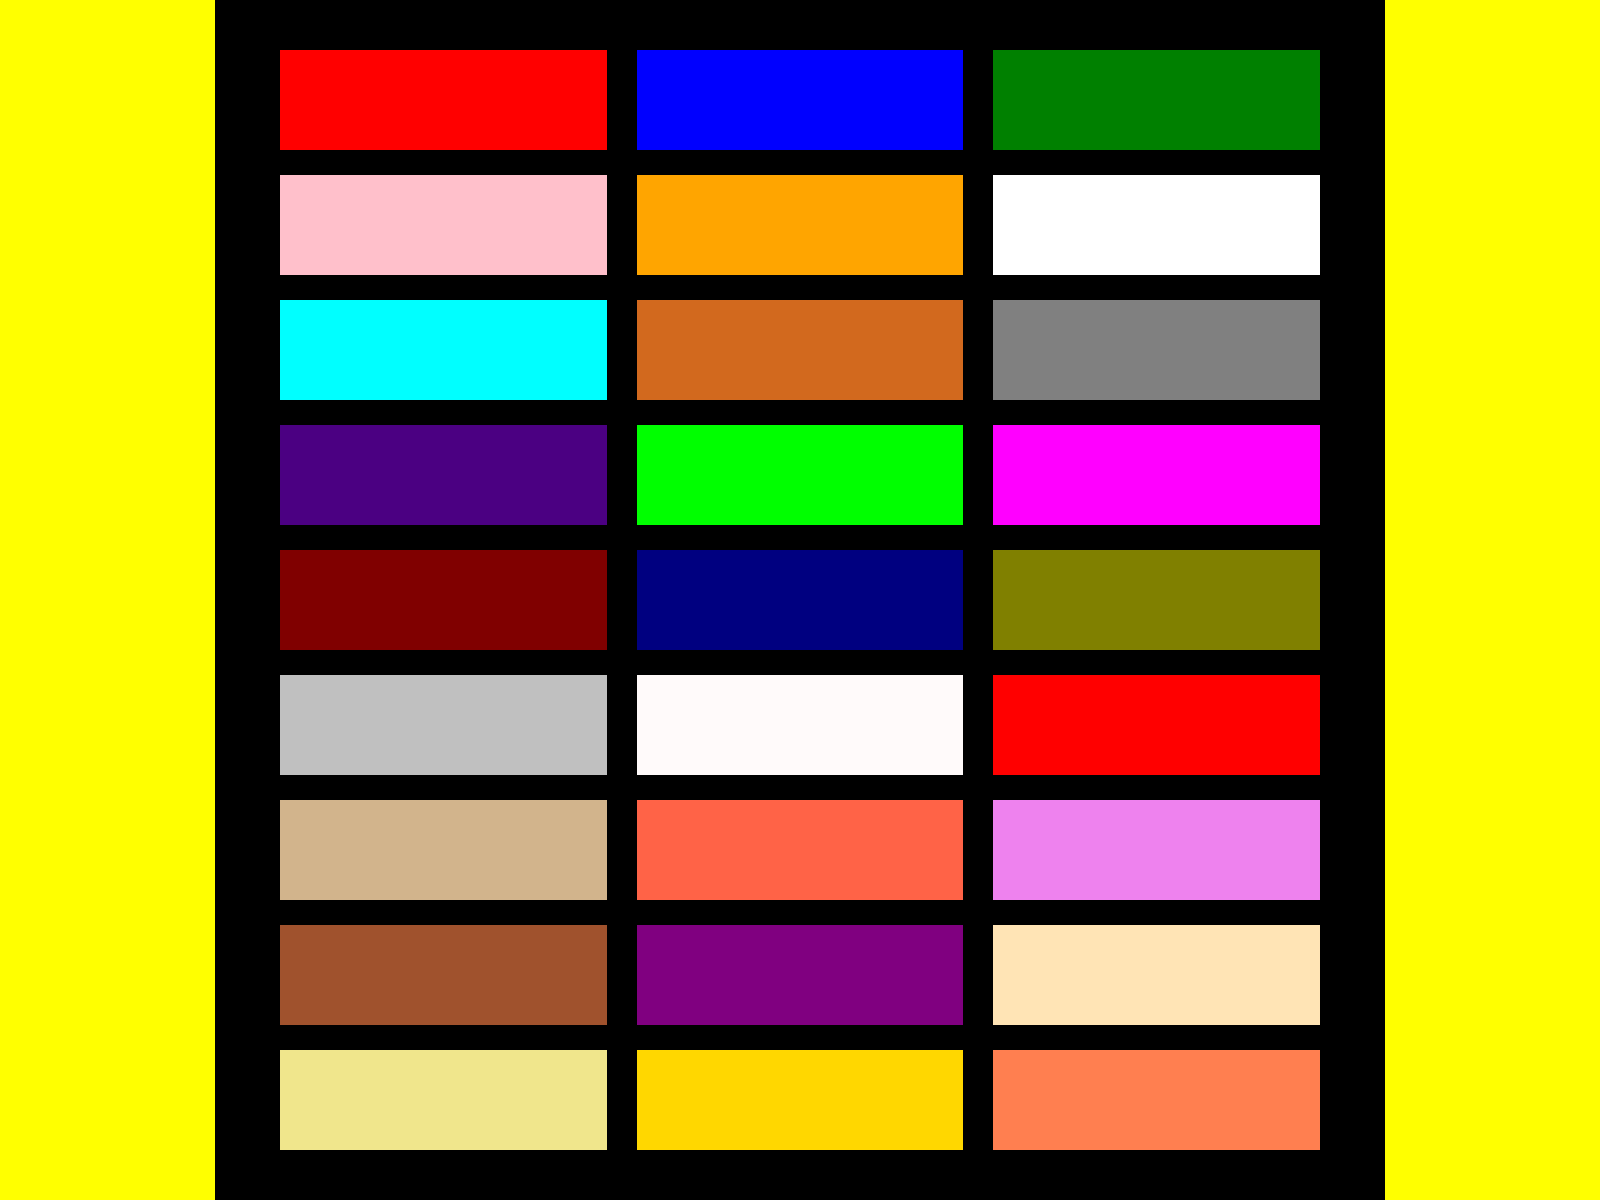
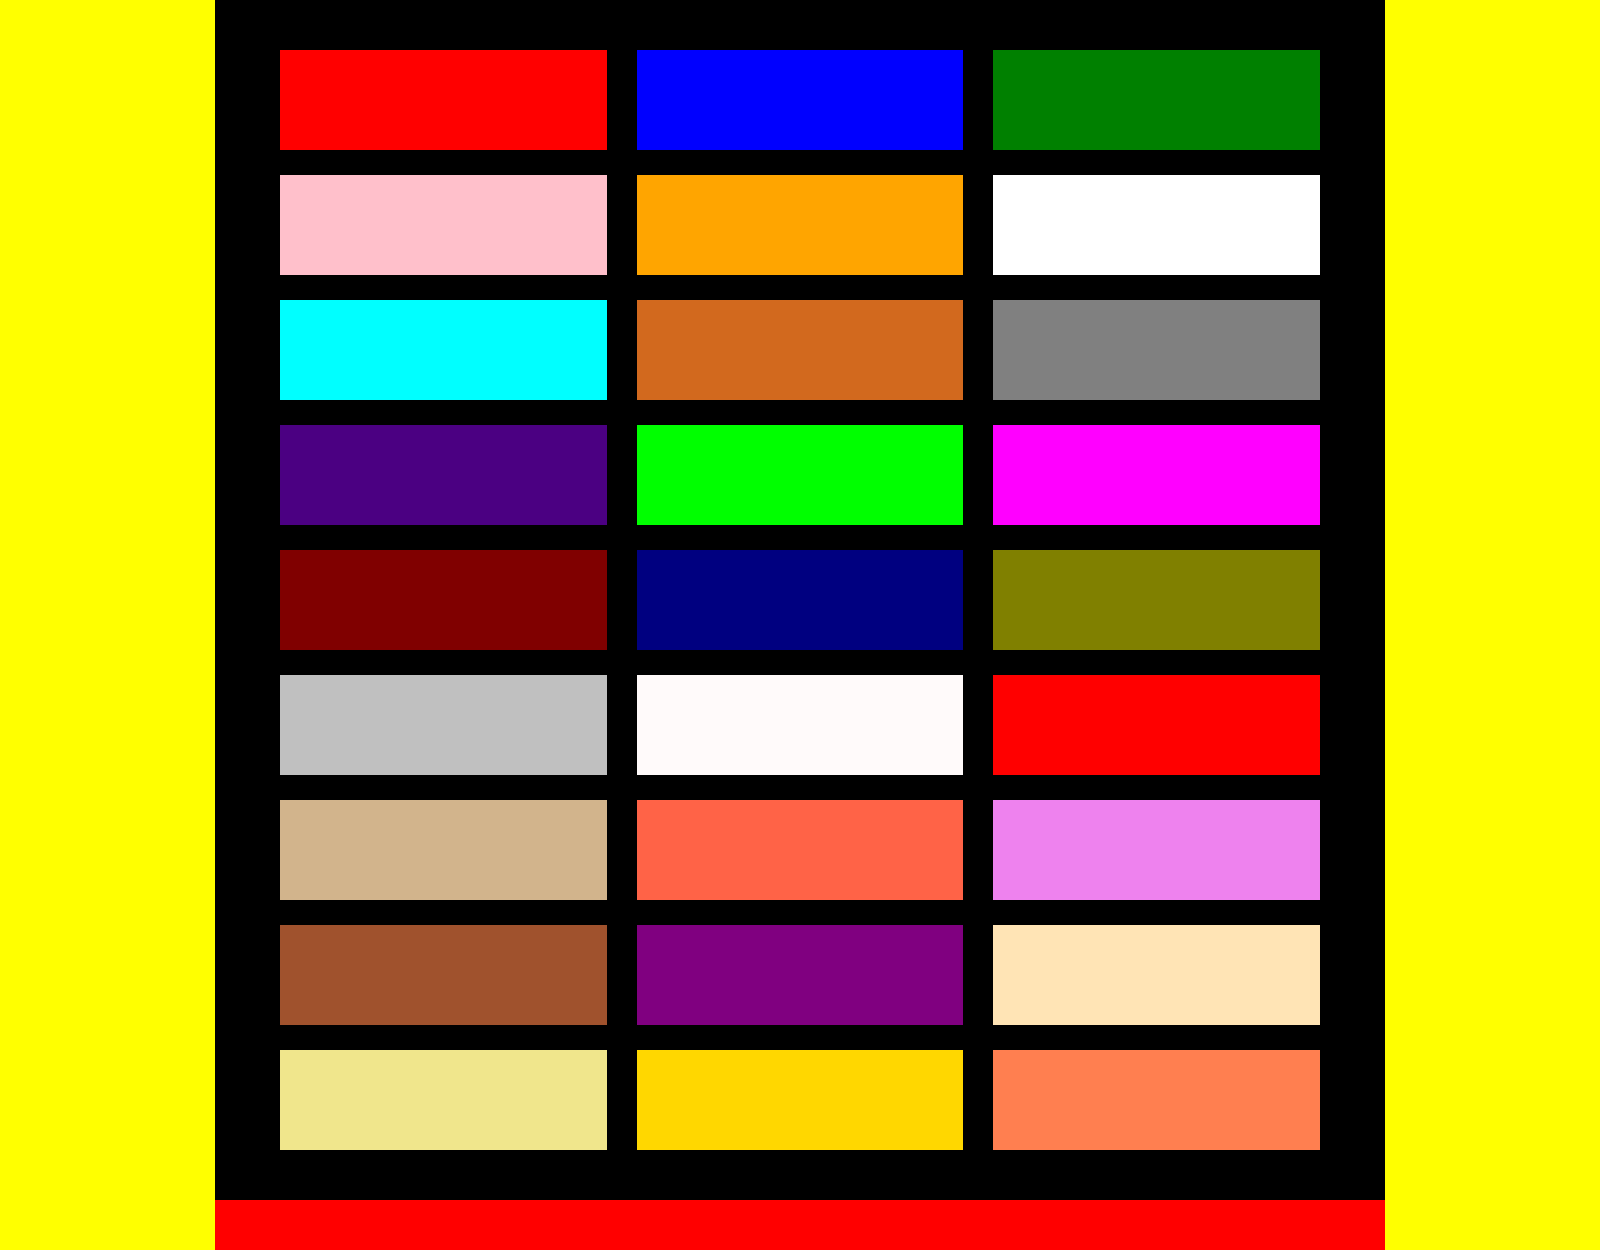
Updates

diff --git a/integration/css/main.css b/integration/css/main.css
@@ -18,6 +18,11 @@ body {
   min-width: 1300px;
 }
 
+.footer {
+  height: 50px;
+  background-color: red; 
+}
+
 .box {
   height: 100px;
 }

diff --git a/integration/responsive-min-width.html b/integration/responsive-min-width.html
@@ -110,6 +110,7 @@
       </div>
     </div>
   </div>
+  <div class="container responsive-min-width footer"></div>
 </body>
 
 </html>

diff --git a/integration/static.html b/integration/static.html
@@ -109,6 +109,7 @@
       </div>
     </div>
   </div>
+  <div class="container static footer"></div>
 </body>
 
 </html>

diff --git a/integration/responsive.html b/integration/responsive.html
@@ -110,6 +110,7 @@
       </div>
     </div>
   </div>
+  <div class="container footer"></div>
 </body>
 
 </html>
